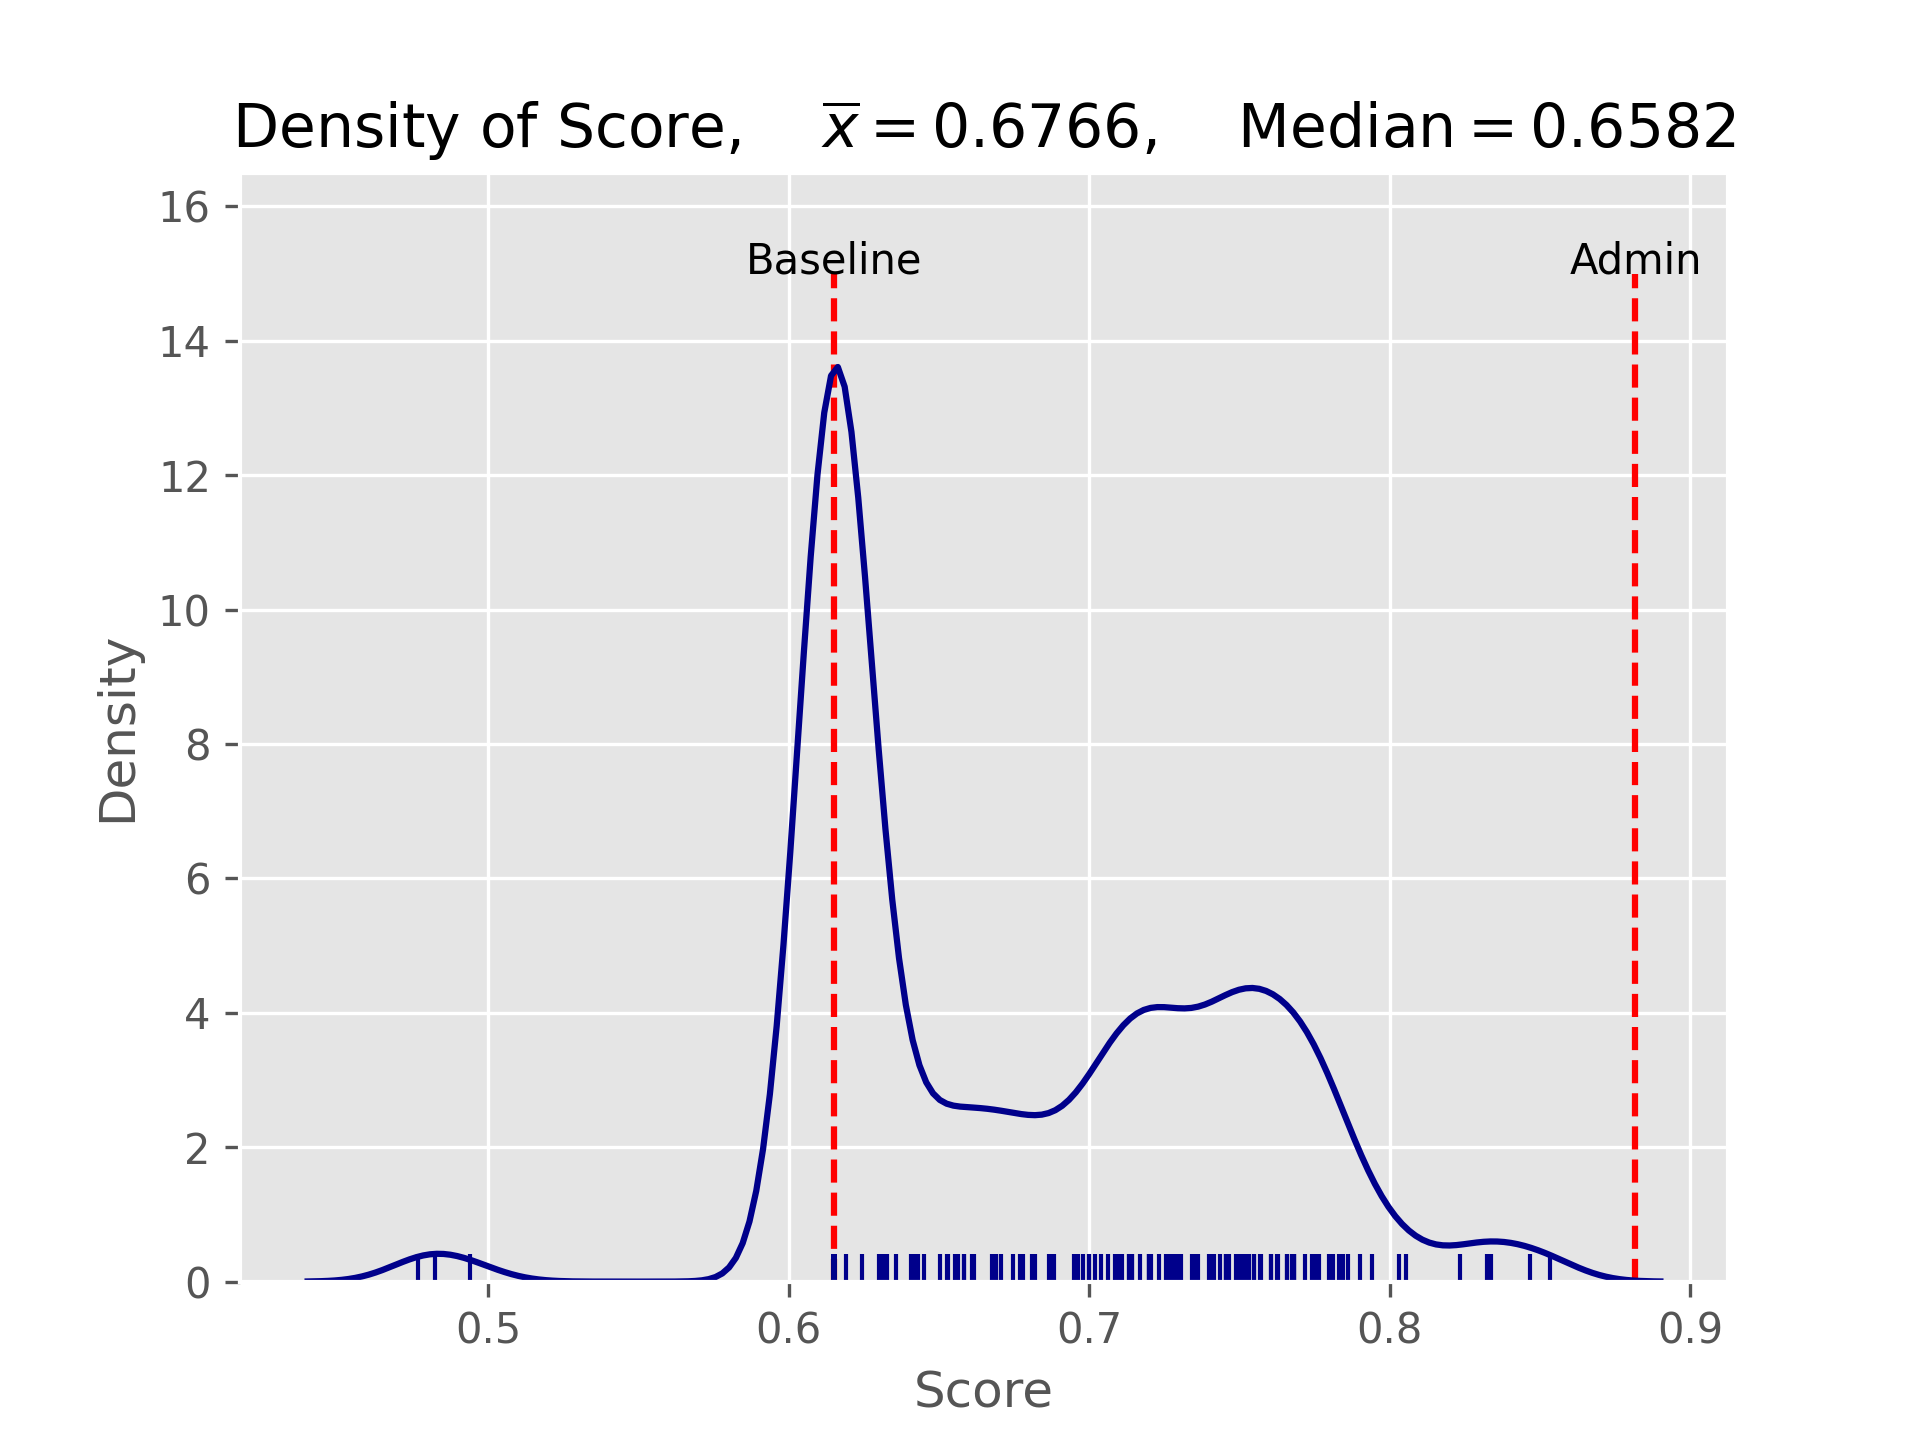
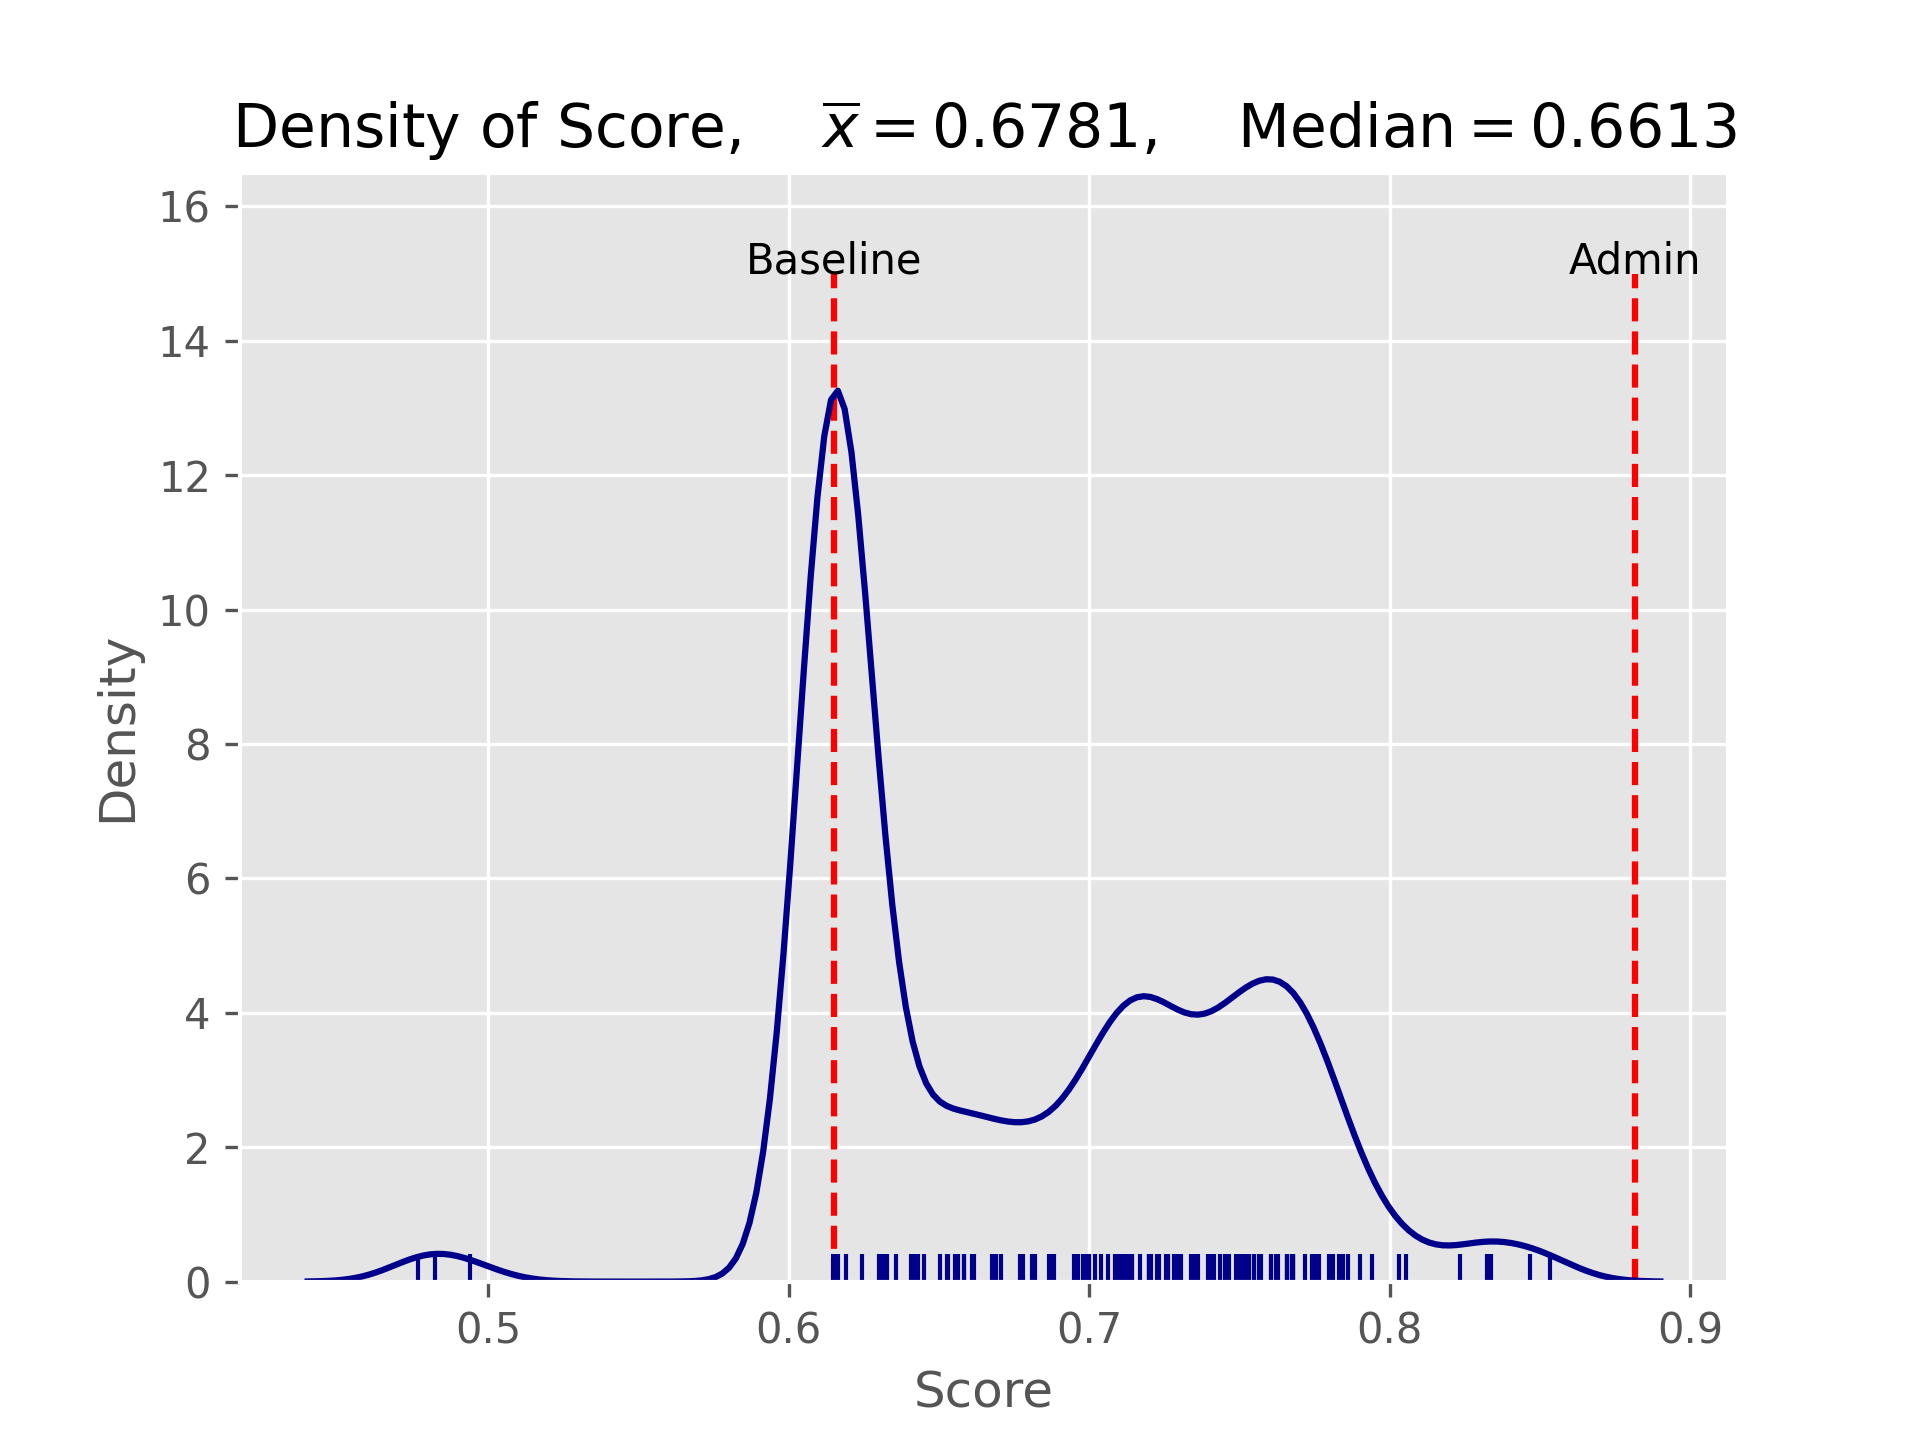
Updated: 2021-05-15 19:17:28

diff --git a/README.md b/README.md
@@ -1,6 +1,6 @@
 # ETC3250 Kaggle score
 
-**Last updated: May 15, 2021 17:12:22**
+**Last updated: May 15, 2021 19:17:28**
 
 ## WARNING: Your final grade is based on your score on the `private leaderboard`. 
 
@@ -19,11 +19,11 @@ Number of teams: 200
 |#|Team Id|Team Name|Submission Date|Score|Points|
 |---|---|---|---|---|---|
 |1|6749482|dzho37|15 May 13:32:47|0.85342|13|
-|2|6765261|Real Admin @zyan0056|14 May 14:12:32|0.84663|13|
+|2|6765261|Real Admin @zyan0056|15 May 18:50:13|0.84663|13|
 |3|6754507|Not Admin|15 May 13:00:46|0.83361|13|
-|4|6767591|carljohnsonCJ|14 May 20:31:08|0.83248|13|
+|4|6767591|carljohnsonCJ|15 May 18:45:34|0.83248|13|
 |5|6754716|efre0004|15 May 14:41:08|0.82342|13|
-|6|6754828|mwjon5|14 May 13:01:25|0.80531|13|
+|6|6754828|mwjon5|15 May 18:05:18|0.80531|13|
 |7|6749705|zxio0011|15 May 15:23:05|0.80305|13|
 |8|6750698|yjia0021|15 May 14:43:19|0.79400|12|
 |9|6755904|wtan0062|15 May 16:02:59|0.79003|12|
@@ -40,140 +40,140 @@ Number of teams: 200
 |20|6753795|ttra0038|13 May 14:13:17|0.77419|12|
 |21|6764289|Thomas Pranoto|15 May 02:42:00|0.77192|12|
 |22|6766956|sbat0011|15 May 16:26:34|0.76796|11|
-|23|6759022|claw0008|14 May 23:08:08|0.76796|11|
-|24|6754493|Po-Yu Huang|14 May 23:48:00|0.76796|11|
+|23|6759022|claw0008|15 May 18:06:30|0.76796|11|
+|24|6754493|Po-Yu Huang|15 May 18:38:09|0.76796|11|
 |25|6764152|Pei Ni Lim|15 May 13:58:17|0.76740|11|
-|26|6751314|cwei0018|14 May 23:14:36|0.76570|11|
-|27|6759412|Davide Signor|14 May 23:01:44|0.76570|11|
-|28|6759838|xwuu0061|15 May 12:26:12|0.76287|11|
-|29|6754021|ntry0001|15 May 11:28:27|0.76230|11|
-|30|6750238|zzd|15 May 14:15:46|0.76061|11|
-|31|6755448|jwan0296|14 May 03:01:57|0.76061|11|
-|32|6750247|Kevin Tat17|13 May 18:50:52|0.75721|11|
-|33|6754693|xwan0169|14 May 09:20:24|0.75664|11|
-|34|6758694|nhee0002|14 May 13:16:29|0.75495|11|
-|35|6757633|lbao0008|14 May 12:50:16|0.75495|11|
-|36|6768666|jham0020|13 May 20:07:12|0.75325|11|
-|37|6751555|jwah0003|15 May 16:45:19|0.75212|11|
-|38|6754314|Alexi Tsakis|15 May 01:42:36|0.75099|11|
-|39|6749592|igup0001|15 May 10:39:58|0.75042|11|
-|40|6750774|yhua0047|15 May 15:45:06|0.74985|11|
-|41|6759731|Daniel Ong|15 May 14:27:50|0.74985|11|
-|42|6768072|Jkan0025|15 May 15:37:10|0.74872|11|
-|43|6750485|Zhongxuan Yin|13 May 14:53:31|0.74646|11|
-|44|6759088|skhu0008|14 May 23:07:25|0.74533|11|
-|45|6765326|ywan0454|12 May 02:49:19|0.74533|11|
-|46|6764575|jngu0046|15 May 07:49:33|0.74533|11|
-|47|6751520|mluk0004|15 May 14:51:58|0.74363|11|
-|48|6749892|Zhongzheng Zhang|14 May 12:01:08|0.74136|11|
-|49|6760740|qwan0060|15 May 00:05:05|0.74080|11|
-|50|6753832|hmaus1|14 May 15:03:07|0.73967|11|
-|51|6751334|yzha0275|15 May 16:58:31|0.73627|10|
-|52|6761498|qche0022|15 May 12:23:41|0.73514|10|
-|53|6750514|wwin0001|14 May 23:41:39|0.73401|10|
-|54|6756740|psap0002|15 May 12:46:34|0.73061|10|
-|55|6760317|Wliu0044|15 May 13:59:32|0.72948|10|
-|56|6760878|Oblong|14 May 09:53:00|0.72891|10|
-|57|6767433|ang0004|12 May 23:04:50|0.72835|10|
-|58|6755482|dche0021|13 May 15:46:11|0.72722|10|
+|26|6759088|skhu0008|15 May 18:18:38|0.76740|11|
+|27|6751314|cwei0018|14 May 23:14:36|0.76570|11|
+|28|6759412|Davide Signor|14 May 23:01:44|0.76570|11|
+|29|6755482|dche0021|15 May 18:39:06|0.76570|11|
+|30|6759838|xwuu0061|15 May 12:26:12|0.76287|11|
+|31|6754021|ntry0001|15 May 17:16:48|0.76230|11|
+|32|6750238|zzd|15 May 14:15:46|0.76061|11|
+|33|6755448|jwan0296|14 May 03:01:57|0.76061|11|
+|34|6750247|Kevin Tat17|13 May 18:50:52|0.75721|11|
+|35|6754693|xwan0169|14 May 09:20:24|0.75664|11|
+|36|6758694|nhee0002|14 May 13:16:29|0.75495|11|
+|37|6757633|lbao0008|15 May 18:34:19|0.75495|11|
+|38|6768666|jham0020|13 May 20:07:12|0.75325|11|
+|39|6751555|jwah0003|15 May 16:45:19|0.75212|11|
+|40|6754314|Alexi Tsakis|15 May 01:42:36|0.75099|11|
+|41|6749592|igup0001|15 May 10:39:58|0.75042|11|
+|42|6750774|yhua0047|15 May 15:45:06|0.74985|11|
+|43|6759731|Daniel Ong|15 May 14:27:50|0.74985|11|
+|44|6768072|Jkan0025|15 May 15:37:10|0.74872|11|
+|45|6750485|Zhongxuan Yin|13 May 14:53:31|0.74646|11|
+|46|6765326|ywan0454|12 May 02:49:19|0.74533|11|
+|47|6764575|jngu0046|15 May 07:49:33|0.74533|11|
+|48|6751520|mluk0004|15 May 14:51:58|0.74363|11|
+|49|6749892|Zhongzheng Zhang|14 May 12:01:08|0.74136|11|
+|50|6760740|qwan0060|15 May 00:05:05|0.74080|11|
+|51|6753832|hmaus1|14 May 15:03:07|0.73967|11|
+|52|6751334|yzha0275|15 May 16:58:31|0.73627|10|
+|53|6761498|qche0022|15 May 12:23:41|0.73514|10|
+|54|6750514|wwin0001|14 May 23:41:39|0.73401|10|
+|55|6756740|psap0002|15 May 12:46:34|0.73061|10|
+|56|6760317|Wliu0044|15 May 13:59:32|0.72948|10|
+|57|6760878|Oblong|14 May 09:53:00|0.72891|10|
+|58|6767433|ang0004|12 May 23:04:50|0.72835|10|
 |59|6754129|ghan0002|14 May 23:57:52|0.72608|10|
 |60|6765541|wtan0001|14 May 23:24:26|0.72608|10|
 |61|6763455|Ziyue Zhang|15 May 00:26:27|0.72552|10|
 |62|6755109|Dea Avega Editya|14 May 10:20:45|0.72325|10|
-|63|6753551|dorl0002|15 May 15:09:50|0.72043|10|
-|64|6753813|yzha0633|15 May 14:02:44|0.71986|10|
-|65|6749490|fwan0018|15 May 10:03:02|0.71986|10|
-|66|6749310|rtia0007|12 May 18:09:02|0.71986|10|
-|67|6754678|Ronghao Zhang|14 May 11:34:12|0.71703|10|
-|68|6751234|Guy H Davis|14 May 10:57:28|0.71420|10|
-|69|6751598|hfen27|14 May 13:11:44|0.71420|10|
-|70|6749351|jche0254|15 May 10:00:32|0.71307|10|
-|71|6749366|xwan0160|15 May 16:11:35|0.71307|10|
-|72|6767603|jfer0020|11 May 19:09:43|0.71080|10|
-|73|6767902|wfer0009|14 May 22:02:12|0.71024|10|
-|74|6755522|casco2|15 May 12:16:36|0.71024|10|
-|75|6767378|Arzu Khanna|15 May 12:00:15|0.70911|10|
-|76|6767628|Bo Zhang 3520|15 May 10:29:17|0.70854|10|
-|77|6766000|Langtian Cheng|15 May 14:50:06|0.70628|10|
-|78|6760555|zzha0230|13 May 22:31:38|0.70401|10|
-|79|6749457|Belgian Pharmacist|15 May 14:14:34|0.70175|10|
-|80|6749461|mkar0012|15 May 01:23:28|0.70005|10|
-|81|6756942|jtho0048|14 May 17:21:45|0.70005|10|
-|82|6749287|rwon0005|14 May 19:05:52|0.69779|10|
-|83|6783780|mshi0014|15 May 09:06:37|0.69609|10|
-|84|6754894|dama0007|15 May 10:29:23|0.69496|10|
-|85|6760529|maam0001|15 May 13:04:06|0.68817|10|
-|86|6753842|Anqi Luo|14 May 23:04:43|0.68704|10|
-|87|6750607|hngo0005|14 May 15:23:32|0.68647|10|
-|88|6759061|Abin John|15 May 11:21:28|0.68194|10|
-|89|6763905|xliu0026|14 May 21:21:37|0.68081|10|
-|90|6753670|Tran Thanh Han Ha|09 May 18:38:25|0.67798|10|
-|91|6761343|dgar0010|13 May 20:12:53|0.67741|10|
-|92|6749822|John Yan|13 May 22:09:17|0.67685|9|
-|93|6762119|Evelyn Budhy Wibowo|13 May 22:02:18|0.67458|9|
-|94|6764345|yliu0320|15 May 13:31:48|0.67062|9|
-|95|6753817|JiaPeng0106|10 May 13:28:44|0.66893|9|
-|96|6768276|Alex Chou|13 May 21:57:39|0.66893|9|
-|97|6761828|Ying Zou95|14 May 22:45:15|0.66779|9|
-|98|6758921|Zhijun Li/zlii0231|15 May 14:48:47|0.66157|9|
-|99|6775741|blen0004|13 May 14:26:10|0.66100|8|
-|100|6765060|khyd0001|14 May 21:29:09|0.65817|8|
-|101|6765741|bwen0003|14 May 01:20:38|0.65817|8|
-|102|6767860|ylii0273|13 May 21:54:15|0.65647|8|
-|103|6800064|Thuy Tran LINH|15 May 16:13:51|0.65534|<=7|
-|104|6756315|Qin Zhou 29287170|13 May 13:48:59|0.65308|<=7|
-|105|6763613|ofon0002|15 May 16:38:24|0.65251|<=7|
-|106|6750421|sche0149|14 May 03:55:12|0.65025|<=7|
-|107|6764503|Yu Zhou|14 May 23:25:54|0.64516|<=7|
-|108|6755781|vwid06|15 May 04:23:16|0.64289|<=7|
-|109|6757039|phun0001|14 May 10:23:12|0.64176|<=7|
-|110|6759274|Dwayne Pinto|14 May 18:54:31|0.64119|<=7|
-|111|6763202|dngu0066|15 May 10:06:20|0.64063|<=7|
-|112|6760382|jlee0179|15 May 13:50:49|0.63554|<=7|
-|113|6753792|Angelina Atanassova|12 May 14:36:36|0.63271|<=7|
-|114|6750992|Qimei Yang|14 May 14:06:11|0.63157|<=7|
-|115|6765312|mqas0003|13 May 19:48:26|0.63101|<=7|
-|116|6750996|Lirui Guo|13 May 22:53:14|0.62988|<=7|
-|117|6755591|ltmoo2|13 May 20:26:24|0.62422|<=7|
-|118|6753638|nper0009|14 May 12:00:49|0.61912|<=7|
-|119|6738627|predictions_2021-05-04.csv|04 May 17:42:25|0.61516|<=7|
-|120|6749412|Monchy|14 May 21:28:04|0.61516|<=7|
-|121|6750168|Ruimin Lin|12 May 18:34:34|0.61516|<=7|
-|122|6750648|[Deleted] a1fcae29-177c-495d-be3e-ecb1d2e418e1|06 May 20:32:47|0.61516|<=7|
-|123|6751310|Cpen0009|13 May 01:20:38|0.61516|<=7|
-|124|6753687|Juliette101|15 May 16:06:47|0.61516|<=7|
-|125|6754085|Tomer Fridland|14 May 18:06:02|0.61516|<=7|
-|126|6754262|Namrata Goel|07 May 13:16:59|0.61516|<=7|
-|127|6754439|cyee0011|14 May 00:52:46|0.61516|<=7|
-|128|6754465|vvoo0004|07 May 14:16:27|0.61516|<=7|
-|129|6754610|dvek0001|14 May 17:54:01|0.61516|<=7|
-|130|6754890|ctin0006|07 May 17:54:53|0.61516|<=7|
-|131|6756086|akha0059|11 May 14:36:02|0.61516|<=7|
-|132|6756637|lqia0006|13 May 01:38:41|0.61516|<=7|
-|133|6750103|heva0001|14 May 16:43:00|0.61516|<=7|
-|134|6758582|Vinny Vu|14 May 14:03:04|0.61516|<=7|
-|135|6758766|hhen0005|08 May 10:49:43|0.61516|<=7|
-|136|6758855|MKitchener_Monash|08 May 11:34:04|0.61516|<=7|
-|137|6758777|Gayani Amali Balasuriya|14 May 12:15:44|0.61516|<=7|
-|138|6759272|Suyue|08 May 13:38:52|0.61516|<=7|
-|139|6759596|monash_jpea00100|08 May 15:43:01|0.61516|<=7|
-|140|6760487|Junze Zeng|08 May 18:39:04|0.61516|<=7|
-|141|6761203|Aryan Jain #2|08 May 21:22:37|0.61516|<=7|
-|142|6760974|ZipingLeow|13 May 02:51:53|0.61516|<=7|
-|143|6761427|byeo0005|08 May 22:13:26|0.61516|<=7|
-|144|6761422|Wenxuan Gong|08 May 22:16:50|0.61516|<=7|
-|145|6761697|azad0001|15 May 10:57:14|0.61516|<=7|
-|146|6761842|mort0001|08 May 23:53:24|0.61516|<=7|
-|147|6749288|dpha0015|09 May 00:39:08|0.61516|<=7|
-|148|6762123|Siddhant Tirodkar|09 May 01:09:35|0.61516|<=7|
-|149|6756441|jwij0001|09 May 01:13:37|0.61516|<=7|
-|150|6762269|Priya Dingorkar|15 May 14:25:30|0.61516|<=7|
-|151|6762592|xyan0048|15 May 00:22:00|0.61516|<=7|
-|152|6762642|rals0003|14 May 18:52:30|0.61516|<=7|
-|153|6763027|panagiotis stylianos|09 May 07:03:18|0.61516|<=7|
-|154|6760102|Yuheng Cui|09 May 13:49:20|0.61516|<=7|
-|155|6763958|berob5|09 May 14:52:03|0.61516|<=7|
-|156|6754556|sami0006|15 May 14:02:07|0.61516|<=7|
+|63|6754556|sami0006|15 May 19:03:55|0.72269|10|
+|64|6753551|dorl0002|15 May 15:09:50|0.72043|10|
+|65|6753813|yzha0633|15 May 14:02:44|0.71986|10|
+|66|6749490|fwan0018|15 May 10:03:02|0.71986|10|
+|67|6749310|rtia0007|12 May 18:09:02|0.71986|10|
+|68|6754678|Ronghao Zhang|14 May 11:34:12|0.71703|10|
+|69|6751234|Guy H Davis|14 May 10:57:28|0.71420|10|
+|70|6751598|hfen27|14 May 13:11:44|0.71420|10|
+|71|6749351|jche0254|15 May 10:00:32|0.71307|10|
+|72|6749366|xwan0160|15 May 16:11:35|0.71307|10|
+|73|6763958|berob5|15 May 18:21:09|0.71194|10|
+|74|6767603|jfer0020|11 May 19:09:43|0.71080|10|
+|75|6767902|wfer0009|14 May 22:02:12|0.71024|10|
+|76|6755522|casco2|15 May 12:16:36|0.71024|10|
+|77|6767378|Arzu Khanna|15 May 17:49:23|0.70911|10|
+|78|6767628|Bo Zhang 3520|15 May 10:29:17|0.70854|10|
+|79|6766000|Langtian Cheng|15 May 14:50:06|0.70628|10|
+|80|6760555|zzha0230|13 May 22:31:38|0.70401|10|
+|81|6749457|Belgian Pharmacist|15 May 14:14:34|0.70175|10|
+|82|6749461|mkar0012|15 May 01:23:28|0.70005|10|
+|83|6756942|jtho0048|14 May 17:21:45|0.70005|10|
+|84|6762119|Evelyn Budhy Wibowo|15 May 17:22:32|0.69892|10|
+|85|6749287|rwon0005|14 May 19:05:52|0.69779|10|
+|86|6783780|mshi0014|15 May 09:06:37|0.69609|10|
+|87|6754894|dama0007|15 May 10:29:23|0.69496|10|
+|88|6760529|maam0001|15 May 18:33:08|0.68817|10|
+|89|6753842|Anqi Luo|14 May 23:04:43|0.68704|10|
+|90|6750607|hngo0005|14 May 15:23:32|0.68647|10|
+|91|6759061|Abin John|15 May 11:21:28|0.68194|10|
+|92|6763905|xliu0026|14 May 21:21:37|0.68081|10|
+|93|6753670|Tran Thanh Han Ha|09 May 18:38:25|0.67798|10|
+|94|6761343|dgar0010|13 May 20:12:53|0.67741|10|
+|95|6749822|John Yan|13 May 22:09:17|0.67685|9|
+|96|6764345|yliu0320|15 May 13:31:48|0.67062|9|
+|97|6753817|JiaPeng0106|10 May 13:28:44|0.66893|9|
+|98|6768276|Alex Chou|13 May 21:57:39|0.66893|9|
+|99|6761828|Ying Zou95|14 May 22:45:15|0.66779|9|
+|100|6758921|Zhijun Li/zlii0231|15 May 14:48:47|0.66157|9|
+|101|6775741|blen0004|13 May 14:26:10|0.66100|8|
+|102|6765060|khyd0001|14 May 21:29:09|0.65817|8|
+|103|6765741|bwen0003|14 May 01:20:38|0.65817|8|
+|104|6767860|ylii0273|13 May 21:54:15|0.65647|8|
+|105|6800064|Thuy Tran LINH|15 May 16:13:51|0.65534|<=7|
+|106|6756315|Qin Zhou 29287170|13 May 13:48:59|0.65308|<=7|
+|107|6763613|ofon0002|15 May 16:38:24|0.65251|<=7|
+|108|6750421|sche0149|14 May 03:55:12|0.65025|<=7|
+|109|6764503|Yu Zhou|14 May 23:25:54|0.64516|<=7|
+|110|6755781|vwid06|15 May 04:23:16|0.64289|<=7|
+|111|6757039|phun0001|14 May 10:23:12|0.64176|<=7|
+|112|6759274|Dwayne Pinto|14 May 18:54:31|0.64119|<=7|
+|113|6763202|dngu0066|15 May 10:06:20|0.64063|<=7|
+|114|6760382|jlee0179|15 May 13:50:49|0.63554|<=7|
+|115|6753792|Angelina Atanassova|15 May 17:29:01|0.63271|<=7|
+|116|6750992|Qimei Yang|14 May 14:06:11|0.63157|<=7|
+|117|6765312|mqas0003|15 May 19:11:33|0.63101|<=7|
+|118|6750996|Lirui Guo|13 May 22:53:14|0.62988|<=7|
+|119|6755591|ltmoo2|13 May 20:26:24|0.62422|<=7|
+|120|6753638|nper0009|14 May 12:00:49|0.61912|<=7|
+|121|6756086|akha0059|15 May 18:28:03|0.61629|<=7|
+|122|6738627|predictions_2021-05-04.csv|04 May 17:42:25|0.61516|<=7|
+|123|6749412|Monchy|14 May 21:28:04|0.61516|<=7|
+|124|6750168|Ruimin Lin|12 May 18:34:34|0.61516|<=7|
+|125|6750648|[Deleted] a1fcae29-177c-495d-be3e-ecb1d2e418e1|06 May 20:32:47|0.61516|<=7|
+|126|6751310|Cpen0009|13 May 01:20:38|0.61516|<=7|
+|127|6753687|Juliette101|15 May 16:06:47|0.61516|<=7|
+|128|6754085|Tomer Fridland|14 May 18:06:02|0.61516|<=7|
+|129|6754262|Namrata Goel|07 May 13:16:59|0.61516|<=7|
+|130|6754439|cyee0011|14 May 00:52:46|0.61516|<=7|
+|131|6754465|vvoo0004|07 May 14:16:27|0.61516|<=7|
+|132|6754610|dvek0001|14 May 17:54:01|0.61516|<=7|
+|133|6754890|ctin0006|07 May 17:54:53|0.61516|<=7|
+|134|6756637|lqia0006|13 May 01:38:41|0.61516|<=7|
+|135|6750103|heva0001|14 May 16:43:00|0.61516|<=7|
+|136|6758582|Vinny Vu|14 May 14:03:04|0.61516|<=7|
+|137|6758766|hhen0005|08 May 10:49:43|0.61516|<=7|
+|138|6758855|MKitchener_Monash|08 May 11:34:04|0.61516|<=7|
+|139|6758777|Gayani Amali Balasuriya|14 May 12:15:44|0.61516|<=7|
+|140|6759272|Suyue|08 May 13:38:52|0.61516|<=7|
+|141|6759596|monash_jpea00100|08 May 15:43:01|0.61516|<=7|
+|142|6760487|Junze Zeng|08 May 18:39:04|0.61516|<=7|
+|143|6761203|Aryan Jain #2|08 May 21:22:37|0.61516|<=7|
+|144|6760974|ZipingLeow|13 May 02:51:53|0.61516|<=7|
+|145|6761427|byeo0005|08 May 22:13:26|0.61516|<=7|
+|146|6761422|Wenxuan Gong|08 May 22:16:50|0.61516|<=7|
+|147|6761697|azad0001|15 May 10:57:14|0.61516|<=7|
+|148|6761842|mort0001|08 May 23:53:24|0.61516|<=7|
+|149|6749288|dpha0015|09 May 00:39:08|0.61516|<=7|
+|150|6762123|Siddhant Tirodkar|09 May 01:09:35|0.61516|<=7|
+|151|6756441|jwij0001|09 May 01:13:37|0.61516|<=7|
+|152|6762269|Priya Dingorkar|15 May 14:25:30|0.61516|<=7|
+|153|6762592|xyan0048|15 May 00:22:00|0.61516|<=7|
+|154|6762642|rals0003|14 May 18:52:30|0.61516|<=7|
+|155|6763027|panagiotis stylianos|09 May 07:03:18|0.61516|<=7|
+|156|6760102|Yuheng Cui|09 May 13:49:20|0.61516|<=7|
 |157|6753957|Matthew Willaton|14 May 12:08:05|0.61516|<=7|
 |158|6764303|fpso0001|13 May 18:23:53|0.61516|<=7|
 |159|6762192|abab0012|15 May 15:26:58|0.61516|<=7|
@@ -203,7 +203,7 @@ Number of teams: 200
 |183|6768540|bzha0014|11 May 11:02:58|0.61516|<=7|
 |184|6768582|ague0004|10 May 15:25:01|0.61516|<=7|
 |185|6768590|bhua0008|10 May 15:25:13|0.61516|<=7|
-|186|6768117|Alysa Vongsykeo|10 May 15:53:17|0.61516|<=7|
+|186|6768117|avon0005|15 May 18:53:15|0.61516|<=7|
 |187|6759326|Emily Sheehan|15 May 13:44:50|0.61516|<=7|
 |188|6766670|rlai0004|10 May 16:25:54|0.61516|<=7|
 |189|6768901|blaw0002|11 May 10:45:22|0.61516|<=7|
